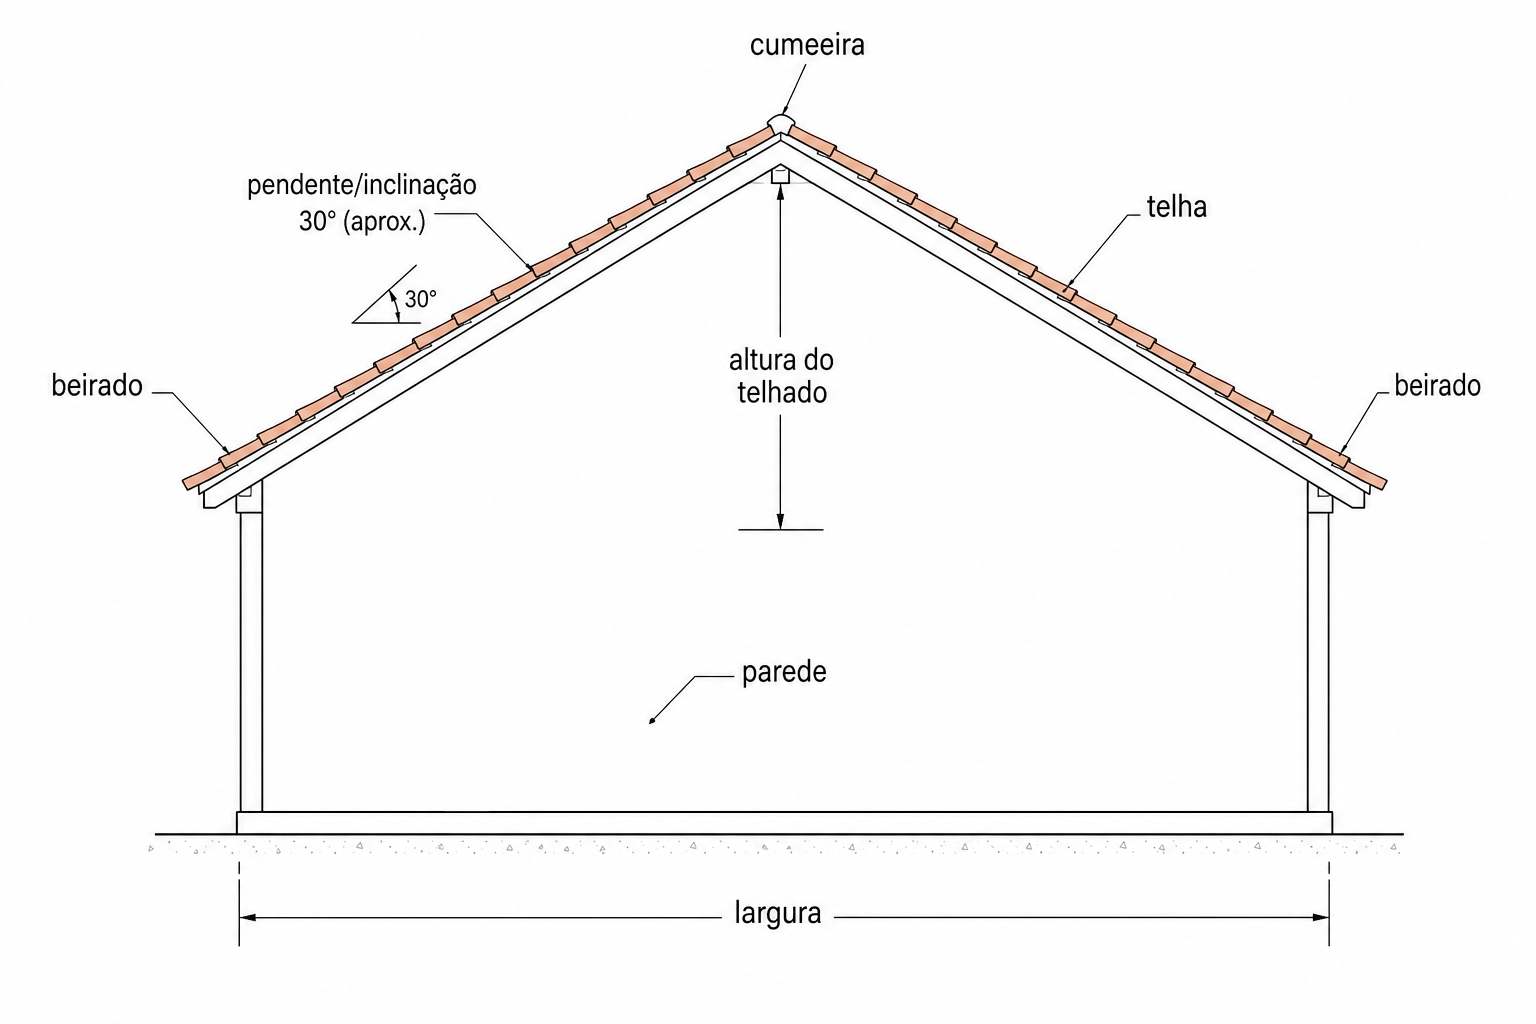
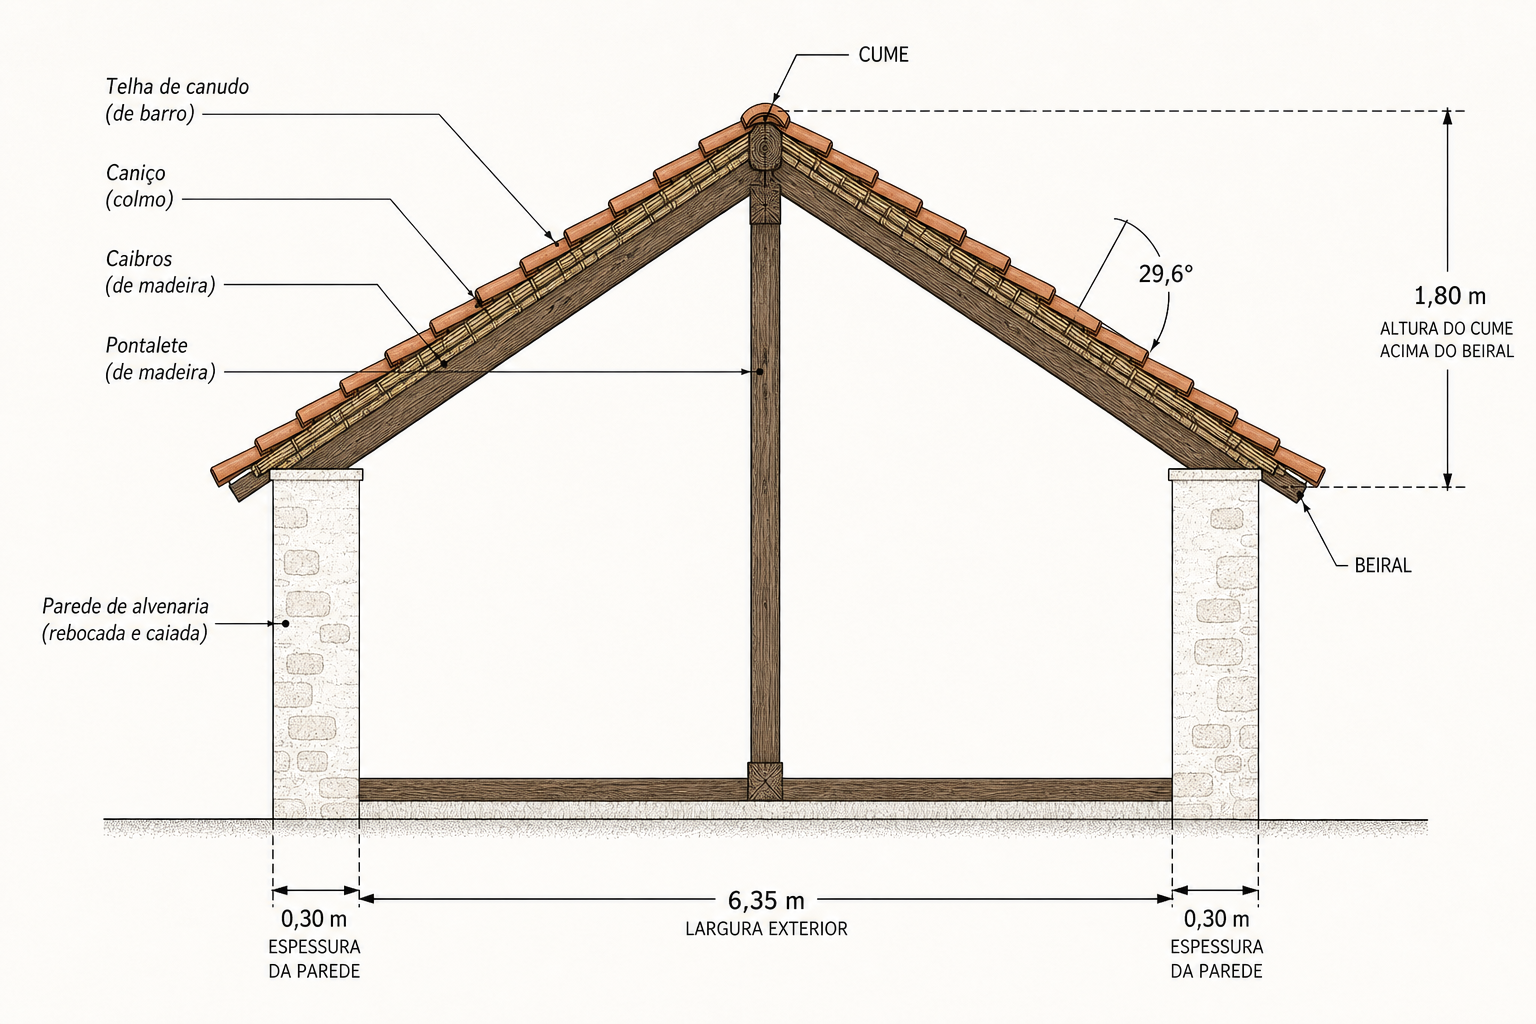
Actualiza o corte do telhado com as medidas reais da casa
Largura 6,35 m, comprimento 12 m, paredes 0,30 m e cume a
1,80 m acima do beiral; inclui estrutura esquemática do sótão.

diff --git a/telhado/index.html b/telhado/index.html
@@ -3,138 +3,144 @@
 <head>
   <meta charset="utf-8" />
   <meta name="viewport" content="width=device-width, initial-scale=1" />
-  <title>Vista lateral do telhado</title>
+  <title>Corte transversal do telhado</title>
   <link rel="preconnect" href="https://fonts.googleapis.com" />
   <link rel="preconnect" href="https://fonts.gstatic.com" crossorigin />
   <link href="https://fonts.googleapis.com/css2?family=Fraunces:opsz,wght@9..144,600&family=Source+Sans+3:wght@400;600&display=swap" rel="stylesheet" />
   <style>
     :root {
-      --fundo: #f4efe6;
-      --tinta: #1c1a17;
-      --acento: #9a4b2e;
+      --fundo: #f3ebe0;
+      --tinta: #1c1814;
+      --acento: #8f4528;
       --papel: #fffdf8;
-      --linha: #d7cfc0;
+      --linha: #d6cbb8;
     }
-
     * { box-sizing: border-box; }
-
     body {
       margin: 0;
       min-height: 100vh;
       font-family: "Source Sans 3", sans-serif;
       color: var(--tinta);
       background:
-        radial-gradient(ellipse at 20% 0%, #efe4d2 0%, transparent 50%),
-        radial-gradient(ellipse at 90% 100%, #e8d7c4 0%, transparent 45%),
+        radial-gradient(ellipse at 15% 0%, #eadcc8 0%, transparent 48%),
+        radial-gradient(ellipse at 100% 100%, #e2d0ba 0%, transparent 42%),
         var(--fundo);
     }
-
     main {
-      max-width: 980px;
+      max-width: 1040px;
       margin: 0 auto;
-      padding: 2.5rem 1.25rem 3rem;
+      padding: 2.25rem 1.2rem 3rem;
     }
-
     h1 {
       font-family: "Fraunces", serif;
       font-weight: 600;
-      font-size: clamp(1.8rem, 4vw, 2.6rem);
-      margin: 0 0 0.4rem;
+      font-size: clamp(1.7rem, 3.8vw, 2.4rem);
+      margin: 0 0 0.35rem;
       letter-spacing: -0.02em;
     }
-
     .lead {
-      margin: 0 0 1.75rem;
-      max-width: 42rem;
+      margin: 0 0 1.5rem;
+      max-width: 44rem;
       line-height: 1.5;
-      color: #3d3830;
+      color: #3f3830;
     }
-
     .folha {
       background: var(--papel);
       border: 1px solid var(--linha);
-      padding: 1rem;
+      padding: 0.75rem;
       overflow: auto;
     }
-
-    .folha img,
-    .folha object {
+    .folha object,
+    .folha img {
       display: block;
       width: 100%;
       height: auto;
     }
-
     .grelha {
       display: grid;
-      gap: 1.5rem;
-      margin-top: 1.75rem;
+      gap: 1.25rem;
+      margin-top: 1.5rem;
     }
-
-    @media (min-width: 800px) {
-      .grelha { grid-template-columns: 1fr 1fr; }
+    @media (min-width: 780px) {
+      .grelha { grid-template-columns: 1fr 1fr 1fr; }
     }
-
     h2 {
       font-family: "Fraunces", serif;
-      font-size: 1.15rem;
-      margin: 0 0 0.6rem;
+      font-size: 1.05rem;
+      margin: 0 0 0.5rem;
       color: var(--acento);
     }
-
-    ul {
+    ul, dl {
       margin: 0;
-      padding-left: 1.1rem;
+      padding: 0;
       line-height: 1.55;
     }
-
+    ul { padding-left: 1.1rem; }
+    dl div {
+      display: flex;
+      justify-content: space-between;
+      gap: 0.75rem;
+      border-bottom: 1px solid var(--linha);
+      padding: 0.25rem 0;
+    }
+    dt { color: #564e44; }
+    dd { margin: 0; font-weight: 600; }
     .nota {
-      margin-top: 1.5rem;
-      padding: 0.9rem 1rem;
+      margin-top: 1.4rem;
+      padding: 0.85rem 1rem;
       border-left: 3px solid var(--acento);
-      background: rgba(154, 75, 46, 0.08);
+      background: rgba(143, 69, 40, 0.08);
       font-size: 0.95rem;
     }
   </style>
 </head>
 <body>
   <main>
-    <h1>Vista lateral do telhado</h1>
+    <h1>Corte transversal do telhado</h1>
     <p class="lead">
-      Elevação do frontão de um telhado de duas águas, com beirados, cumeeira e pendente indicativos.
-      Os valores são ilustrativos e devem ser ajustados à medida real da obra.
+      Vista lateral segundo o corte da largura da casa (6,35 m), com as medidas que indicaste
+      e a estrutura típica do sótão actual (cumeeira, pontalete, caibros, caniço e telha).
     </p>
 
     <div class="folha">
-      <object data="vista-lateral.svg" type="image/svg+xml" aria-label="Desenho técnico da vista lateral do telhado">
-        <img src="vista-lateral-telhado.png" alt="Vista lateral do telhado de duas águas" />
+      <object data="vista-lateral.svg" type="image/svg+xml" aria-label="Corte transversal cotado do telhado">
+        <img src="vista-lateral-telhado.png" alt="Corte transversal do telhado" />
       </object>
     </div>
 
     <div class="grelha">
       <section>
-        <h2>Elementos</h2>
-        <ul>
-          <li>Cumeeira no ponto mais alto</li>
-          <li>Duas águas com telha</li>
-          <li>Beirado de ~0,50 m de cada lado</li>
-          <li>Pendente α ≈ 30°</li>
-          <li>Estrutura sugerida (asnas / madres)</li>
-        </ul>
+        <h2>Medidas da casa</h2>
+        <dl>
+          <div><dt>Comprimento</dt><dd>12,00 m</dd></div>
+          <div><dt>Largura</dt><dd>6,35 m</dd></div>
+          <div><dt>Parede</dt><dd>0,30 m</dd></div>
+          <div><dt>Vão interior</dt><dd>5,75 m</dd></div>
+        </dl>
       </section>
       <section>
-        <h2>Cotas de partida</h2>
+        <h2>Telhado</h2>
+        <dl>
+          <div><dt>Tipologia</dt><dd>Duas águas</dd></div>
+          <div><dt>Cume → beiral</dt><dd>1,80 m</dd></div>
+          <div><dt>Pendente</dt><dd>≈ 29,6°</dd></div>
+          <div><dt>Água (inclinada)</dt><dd>≈ 3,65 m</dd></div>
+        </dl>
+      </section>
+      <section>
+        <h2>Estrutura</h2>
         <ul>
-          <li>Largura da parede ≈ 8,00 m</li>
-          <li>Altura da parede ≈ 2,70 m</li>
-          <li>Altura do telhado ≈ 2,30 m</li>
-          <li>Beirado ≈ 0,50 m</li>
+          <li>Cumeeira centrada</li>
+          <li>Pontalete vertical</li>
+          <li>Caibros nas duas águas</li>
+          <li>Caniço sob a telha</li>
         </ul>
       </section>
     </div>
 
     <p class="nota">
-      Se quiseres outra tipologia (uma água, quatro águas, mansarda) ou medidas exactas,
-      indica largura, altura desejada e tipo de telha — actualizo o desenho.
+      O corte mostra a largura (6,35 m). O comprimento de 12,00 m corre perpendicular a este desenho.
+      Se quiseres a elevação longitudinal (12 m) ou planta da cobertura, peço e faço a seguir.
     </p>
   </main>
 </body>
